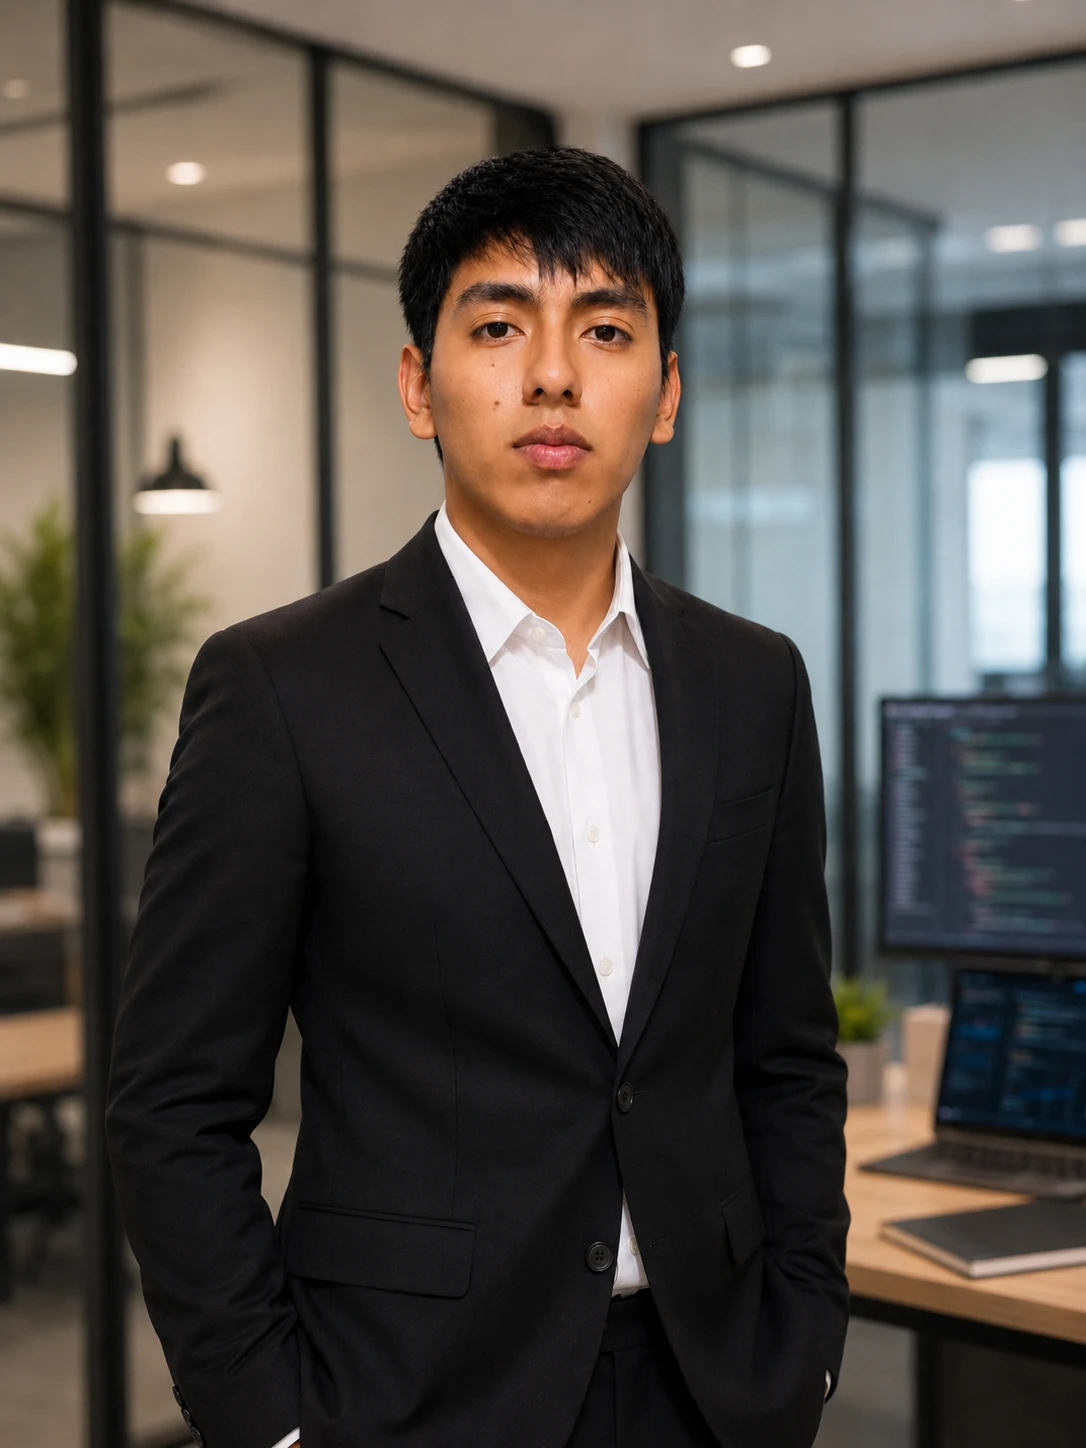
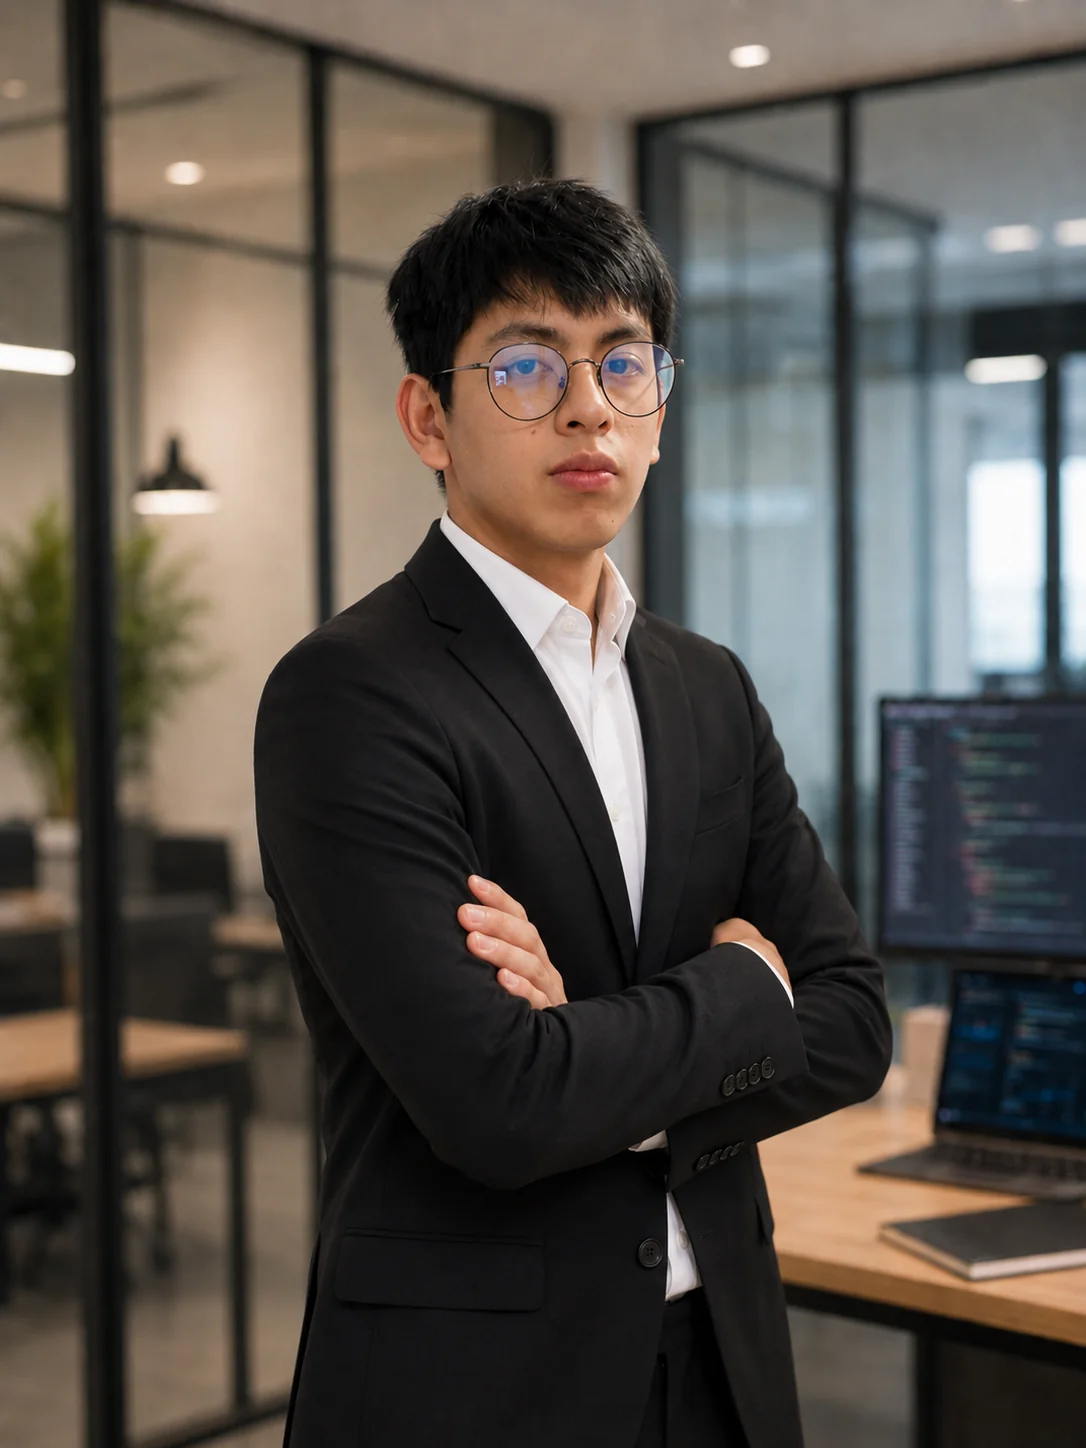
feat(dashboard): mejora la experiencia del panel administrativo

diff --git a/assets/css/paginas/dashboard.css b/assets/css/paginas/dashboard.css
@@ -6298,3 +6298,150 @@ input:-webkit-autofill:active {
 
 .avatar-crop-modal .mark-sheet { animation: avatar-crop-in .25s ease; }
 @keyframes avatar-crop-in { from { opacity: 0; transform: scale(.95) translateY(12px); } to { opacity: 1; transform: none; } }
+
+/*
+   Rediseño visual del panel de Dirección.
+   Se mantiene separado del shell personal para no alterar sus vistas ni su
+   comportamiento responsive. El shell administrativo queda anclado al
+   viewport y desplaza únicamente la sección activa en escritorio.
+*/
+@media (min-width:901px){
+  .portal.admin-wide{
+    display:block;
+    height:100dvh;
+    min-height:100dvh;
+    overflow:hidden;
+    --admin-ambient-background:linear-gradient(135deg,#c9e2f2 0%,#e5eff5 100%);
+    background:var(--admin-ambient-background);
+  }
+
+  .portal.admin-wide[data-time-phase="dawn"]{
+    --admin-ambient-background:linear-gradient(135deg,#e5edf5 0%,#f1e7e2 100%);
+  }
+
+  .portal.admin-wide[data-time-phase="day"]{
+    --admin-ambient-background:linear-gradient(135deg,#c9e2f2 0%,#e5eff5 100%);
+  }
+
+  .portal.admin-wide[data-time-phase="sunset"]{
+    --admin-ambient-background:linear-gradient(135deg,#e3e7f0 0%,#f1e4df 100%);
+  }
+
+  .portal.admin-wide[data-time-phase="night"]{
+    --admin-ambient-background:linear-gradient(142deg,#aebfd1 0%,#c7d4e0 54%,#b7c7d7 100%);
+  }
+
+  .portal.admin-wide .sidebar{
+    position:fixed!important;
+    z-index:50;
+    inset:16px auto auto 16px!important;
+    width:236px!important;
+    height:calc(100dvh - 32px);
+    min-height:0;
+    margin:0;
+    overflow-y:auto;
+    border:1px solid rgba(255,255,255,.12);
+    border-radius:22px;
+  }
+
+  .portal.admin-wide .workspace{
+    height:100dvh;
+    min-height:100dvh;
+    margin-left:268px!important;
+    padding:16px 16px 16px 0!important;
+    overflow:hidden;
+    background:transparent;
+  }
+
+  .portal.admin-wide .time-ambience{
+    background:transparent;
+  }
+
+  .portal.admin-wide .view{
+    width:100%;
+    max-width:none;
+    margin:0;
+  }
+
+  .portal.admin-wide #view-gestion{
+    --admin-gutter:22px;
+    position:fixed!important;
+    z-index:10;
+    inset:16px 16px 16px 268px;
+    width:auto;
+    height:auto;
+    min-height:0;
+    display:grid;
+    grid-template-rows:auto auto minmax(0,1fr);
+    row-gap:16px;
+    padding:0 var(--admin-gutter);
+    overflow:hidden;
+    background:transparent;
+  }
+
+  .portal.admin-wide #view-gestion>.view-head{
+    grid-row:1;
+    margin:0!important;
+    overflow:hidden!important;
+  }
+
+  .portal.admin-wide .admin-head-actions{
+    gap:8px;
+  }
+
+  .portal.admin-wide .admin-role-chip{
+    padding:8px 11px;
+    color:#08765d;
+    background:#e4f7f1;
+  }
+
+  .portal.admin-wide .admin-section-nav{
+    grid-row:2;
+    margin:0;
+  }
+
+  .portal.admin-wide .admin-section-nav button,
+  .portal.admin-wide .admin-section-nav a{
+    min-height:34px;
+    padding-inline:12px;
+    border-radius:9px;
+  }
+
+  .portal.admin-wide .admin-section-nav button.active{
+    color:#fff;
+  }
+
+  .portal.admin-wide #view-gestion>#admin-overview-section,
+  .portal.admin-wide #view-gestion>#admin-list-section,
+  .portal.admin-wide #view-gestion>#admin-month-section,
+  .portal.admin-wide #view-gestion>#admin-summary-section,
+  .portal.admin-wide #view-gestion>#admin-people-section,
+  .portal.admin-wide #view-gestion>#admin-contracts-section,
+  .portal.admin-wide #view-gestion>#admin-roles-section,
+  .portal.admin-wide #view-gestion>#admin-access-section{
+    grid-row:3;
+    min-height:0;
+    overflow-y:auto;
+    overscroll-behavior:contain;
+    scrollbar-gutter:stable;
+  }
+
+  .portal.admin-wide #admin-overview-section{
+    padding:18px 0 0;
+  }
+
+  .portal.admin-wide #admin-list-section,
+  .portal.admin-wide #admin-month-section,
+  .portal.admin-wide #admin-summary-section,
+  .portal.admin-wide #admin-people-section,
+  .portal.admin-wide #admin-contracts-section,
+  .portal.admin-wide #admin-roles-section,
+  .portal.admin-wide #admin-access-section{
+    padding:20px 0 0;
+  }
+
+  .portal.admin-wide .admin-kpis{
+    gap:12px;
+    margin-bottom:16px;
+  }
+}

diff --git a/dashboard.html b/dashboard.html
@@ -12,7 +12,7 @@
 <link href="https://fonts.googleapis.com/css2?family=Inter:wght@400;500;600;700;800&family=Fraunces:opsz,wght@9..144,400;9..144,600&display=swap" rel="stylesheet">
 <link rel="preload" as="image" href="images/dashboard/fondo-1-1920.webp" type="image/webp" media="(min-width: 901px)">
 <link rel="preload" as="image" href="images/dashboard/login-mobile-kja.webp" type="image/webp" media="(max-width: 900px)">
-  <link rel="stylesheet" href="assets/css/paginas/dashboard.css?v=92">
+  <link rel="stylesheet" href="assets/css/paginas/dashboard.css?v=97">
 <link rel="stylesheet" href="https://unpkg.com/cropperjs@1.6.1/dist/cropper.css" />
 <script src="https://cdn.jsdelivr.net/npm/@supabase/supabase-js@2"></script>
 <script src="https://unpkg.com/cropperjs@1.6.1/dist/cropper.js" defer></script>
@@ -460,18 +460,6 @@
         </article>
       </div>
 
-      <section class="admin-modules">
-        <div class="section-title"><span><p class="eyebrow">OPERACIÓN</p><h2>Herramientas administrativas</h2></span><small id="admin-refreshed">—</small></div>
-        <div class="admin-module-grid">
-          <button class="admin-module" type="button" data-admin-section="lista"><span class="admin-module-icon blue"><svg viewBox="0 0 24 24"><rect x="5" y="4" width="14" height="17" rx="2"/><path d="M9 3h6v4H9zM9 14l2 2 4-5"/></svg></span><span><b>Pasar lista</b><small>Registrar y corregir estados del día</small></span><i>→</i></button>
-          <button class="admin-module" type="button" data-admin-section="mes"><span class="admin-module-icon cyan"><svg viewBox="0 0 24 24"><rect x="3" y="5" width="18" height="16" rx="2"/><path d="M3 10h18M8 3v4M16 3v4"/></svg></span><span><b>Mes completo</b><small>Consultar el cuadro mensual</small></span><i>→</i></button>
-          <button class="admin-module" type="button" data-admin-section="colaboradores"><span class="admin-module-icon pink"><svg viewBox="0 0 24 24"><circle cx="12" cy="8" r="4"/><path d="M4 21c.8-4.3 3.5-6 8-6s7.2 1.7 8 6"/></svg></span><span><b>Colaboradores</b><small>DNI, horarios, áreas y estado</small></span><i>→</i></button>
-          <button class="admin-module" type="button" data-admin-section="contratos"><span class="admin-module-icon navy"><svg viewBox="0 0 24 24"><path d="M14 3H7a2 2 0 0 0-2 2v14a2 2 0 0 0 2 2h10a2 2 0 0 0 2-2V8zM14 3v5h5M9 13h6M9 17h4"/></svg></span><span><b>Contratos</b><small>Horas, metas y proyecciones</small></span><i>→</i></button>
-          <button class="admin-module" type="button" data-admin-section="resumen"><span class="admin-module-icon green"><svg viewBox="0 0 24 24"><path d="M4 20h16M6 17v-5M12 17V6M18 17V9"/></svg></span><span><b>Resumen</b><small>Indicadores mensuales del equipo</small></span><i>→</i></button>
-          <button class="admin-module direction-only" id="admin-roles-module" type="button" data-admin-section="roles" hidden><span class="admin-module-icon cyan"><svg viewBox="0 0 24 24"><circle cx="8" cy="8" r="3"/><circle cx="17" cy="9" r="2.5"/><path d="M3 20c.5-3.6 2.3-5 5-5s4.5 1.4 5 5M14 15c3.8 0 5.7 1.4 6 4M12 5l1 1 2-2"/></svg></span><span><b>Roles y equipos</b><small>Designar líderes técnicos por área</small></span><i>→</i></button>
-          <button class="admin-module direction-only" id="admin-device-module" type="button" data-admin-section="marcado"><span class="admin-module-icon amber"><svg viewBox="0 0 24 24"><rect x="6" y="2" width="12" height="20" rx="2.5"/><path d="M10.5 18.5h3"/></svg></span><span><b>Marcado propio</b><small>Acceso, PIN y seguridad del portal</small></span><i>→</i></button>
-        </div>
-      </section>
       </div>
 
       <section class="admin-list-section" id="admin-list-section" hidden>
@@ -929,7 +917,7 @@
   </div>
 </div>
 
-<script src="assets/js/dashboard.js?v=100"></script>
+<script src="assets/js/dashboard.js?v=101"></script>
 <script src="assets/js/dashboard-maps.js?v=2"></script>
 <script src="assets/js/dashboard-admin-equipo.js?v=1"></script>
 <script src="assets/js/dashboard-admin-mes.js?v=1"></script>

diff --git a/assets/js/dashboard.js b/assets/js/dashboard.js
@@ -497,10 +497,10 @@ async function openPortal(activeSession,bootstrap=null){
   $('mobile-action-team').hidden=!APP.identity.isLeader;
   $('mobile-action-admin').hidden=!APP.access.acceso_panel;
   $('admin-role-chip').textContent=({direccion:'Dirección',editor:'Encargado(a)',visor:'Solo lectura'}[APP.access.rol]||APP.access.rol);
-  $('admin-device-module').hidden=APP.access.rol!=='direccion';
+  const deviceModule=$('admin-device-module'); if(deviceModule)deviceModule.hidden=APP.access.rol!=='direccion';
   $('admin-access-tab').hidden=APP.access.rol!=='direccion';
   const managesRoles=APP.identity.isSystem&&APP.access.rol==='direccion'&&APP.access.acceso_panel;
-  $('admin-roles-tab').hidden=!managesRoles;$('admin-roles-module').hidden=!managesRoles;
+  $('admin-roles-tab').hidden=!managesRoles; const rolesModule=$('admin-roles-module'); if(rolesModule)rolesModule.hidden=!managesRoles;
   if(c){ renderHome(); renderProfile(); }
   else if(APP.access.acceso_panel){
     $('rail-area').textContent='Vista de Dirección';
